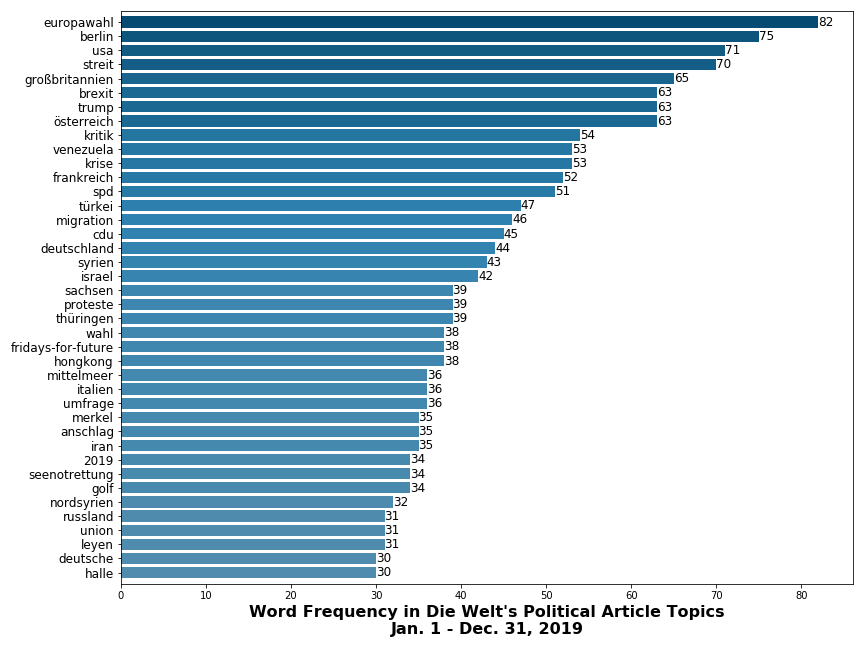
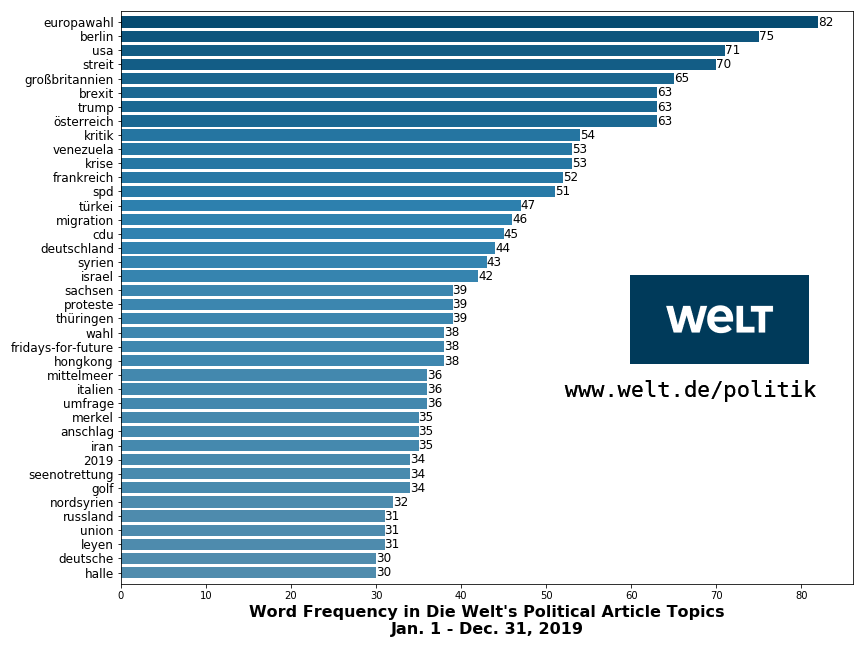
changes to WeltPolitikJahr.js

Changed region(s): [[0.6562, 0.4012, 0.9375, 0.6173]]

diff --git a/src/posts/WeltPolitikJahr.js b/src/posts/WeltPolitikJahr.js
@@ -1,7 +1,7 @@
 import React from 'react'
 import { Grid, Cell, Card, CardTitle, CardActions } from 'react-mdl'
 import i1 from "../img/welt_2019_topic_top68_wordcloud.png"
-import i2 from "../img/2.png"
+import i2 from "../img/welt_politik_2019_topic_top30_bar_horiz.png"
 
 export default function WeltPolitikJahr() {
 
